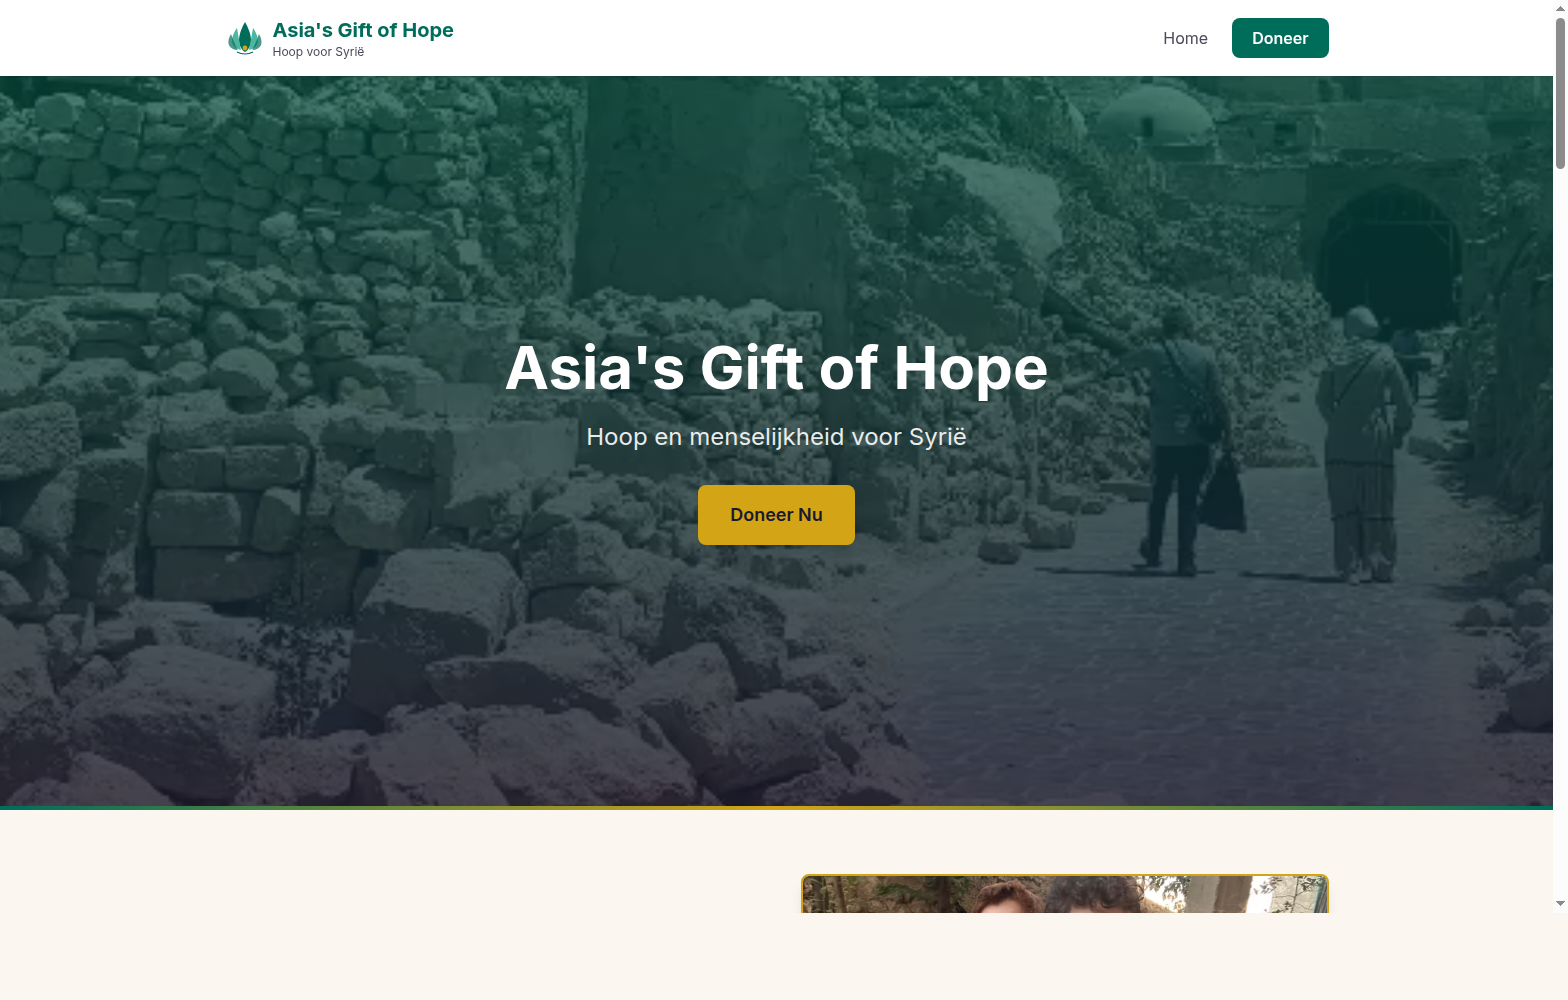
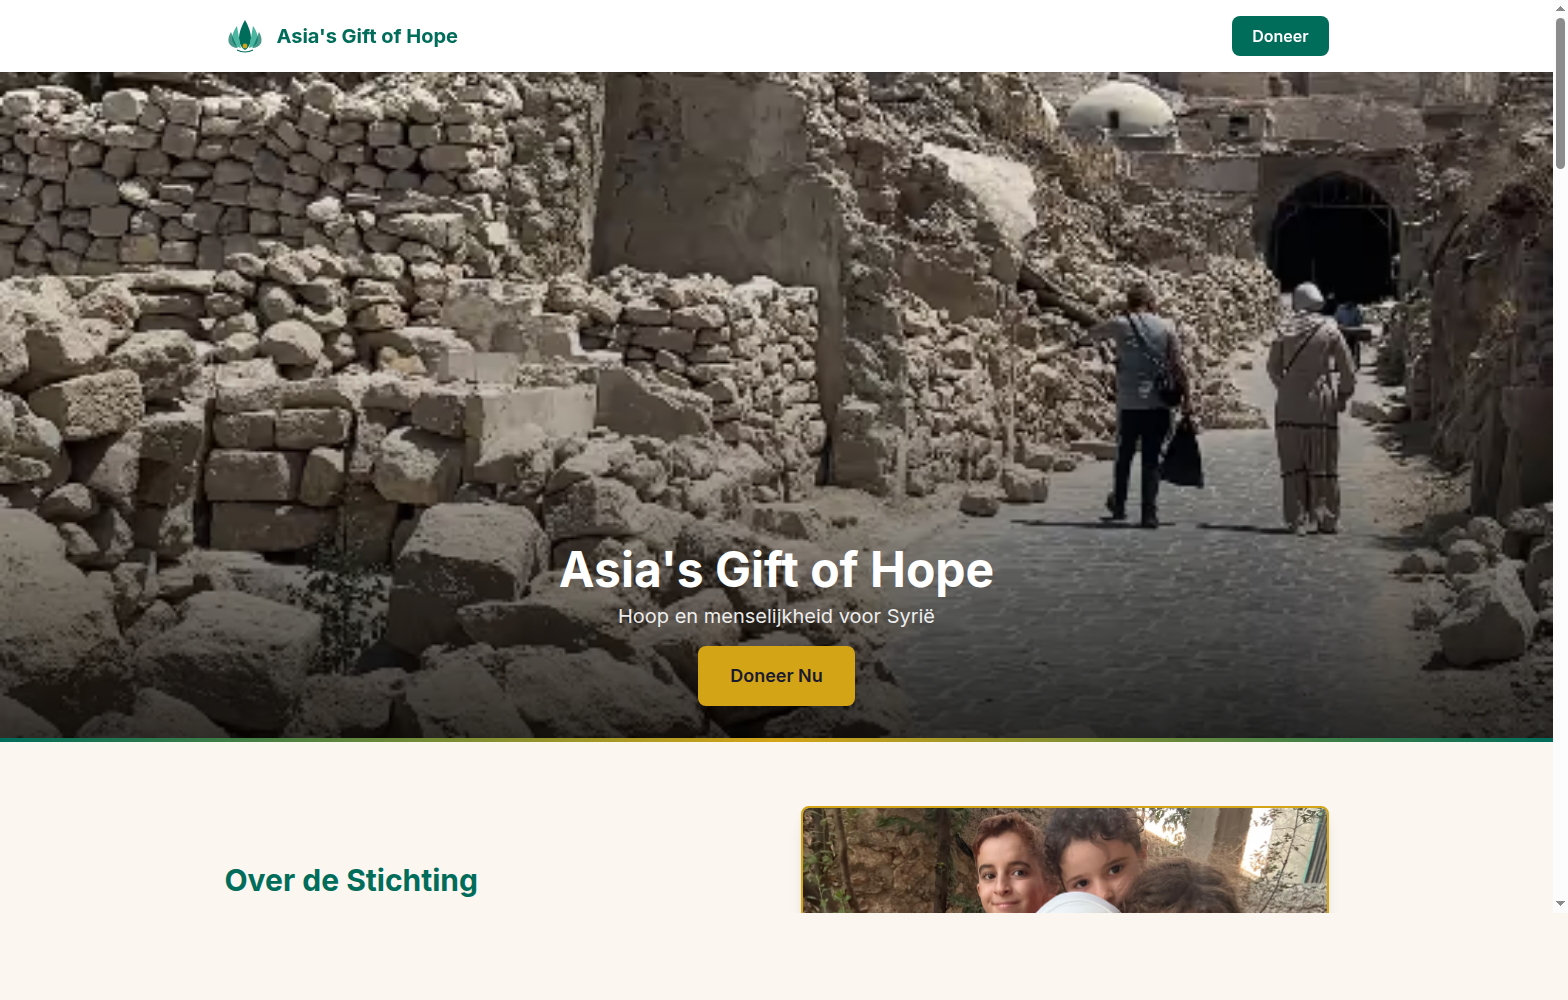
Fix mobile layout and improve hero section
- Fix horizontal overflow issue with max-width: 100% on all elements
- Simplify header: logo + donate button on mobile
- Use 16:9 aspect ratio for hero video (removes black bars)
- Remove scaled YouTube iframe that caused overflow
- Add overflow-hidden to prevent content clipping

diff --git a/src/input.css b/src/input.css
@@ -1,5 +1,20 @@
 @import "tailwindcss";
 
+/* Fix mobile viewport overflow */
+*, *::before, *::after {
+  max-width: 100%;
+}
+
+html {
+  overflow-x: hidden;
+}
+
+body {
+  overflow-x: hidden;
+  width: 100%;
+  min-width: 0;
+}
+
 /* Custom styles - Eastern Color Palette (Middle Eastern inspired) */
 :root {
   --primary: #006D5B; /* Smaragdgroen - Traditional Middle Eastern green */
